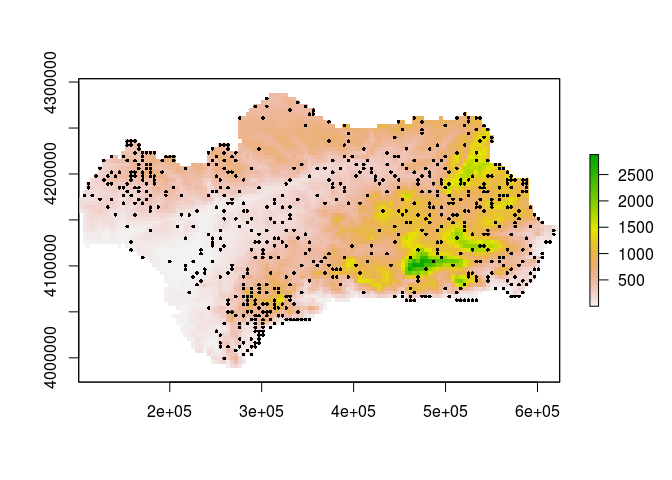
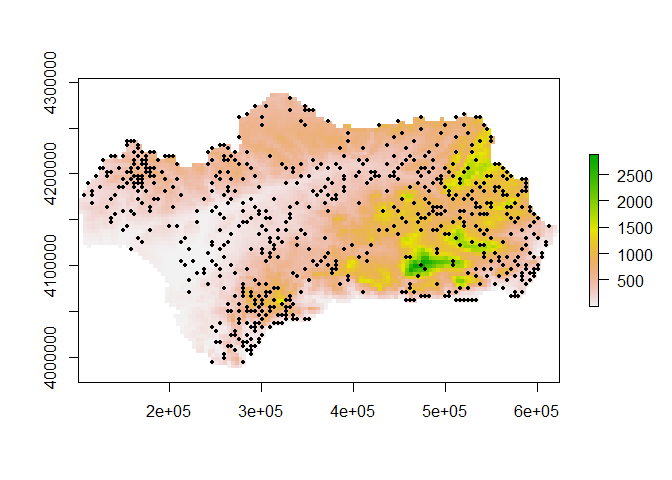
update readme

diff --git a/readme.md b/readme.md
@@ -89,7 +89,7 @@ library(mgcv)
     ## 
     ##     getData
 
-    ## This is mgcv 1.8-17. For overview type 'help("mgcv-package")'.
+    ## This is mgcv 1.8-16. For overview type 'help("mgcv-package")'.
 
 ``` r
 bkpts_quasi <- generate_background_points(number_of_background_points = 20000,
@@ -107,8 +107,8 @@ bkpts_quasi <- generate_background_points(number_of_background_points = 20000,
 fm1 <- gam(presence ~ s(elevation) +
               s(precipitation) +
               s(temperature) +
-              s(vegetation) + 
-              offset(log(weights)),
+              s(vegetation) + offset(log(weights)),
+              # weights = weights,
               data = bkpts_quasi,
               family = poisson())
 
@@ -119,7 +119,7 @@ p1 <- predict(object=preds,
 
 p1_cell <- p1*(res(preds)[1]*res(preds)[2])
 
-par(mfrow=c(1,2))
+par(mfrow=c(1,3))
 
 plot(p1_cell)
 POdata <- species[species$Occurrence == 1,]
@@ -147,6 +147,21 @@ p2 <- predict(object=preds,
 p2_cell <- p2*(res(preds)[1]*res(preds)[2])
 
 plot(p2_cell)
+
+fm_warton2010 <- gam(presence/weights ~ s(elevation) +
+              s(precipitation) +
+              s(temperature) +
+              s(vegetation),
+              weights = weights,
+              data = bkpts_grid,
+              family = poisson())
+
+p_warton <- predict(object=preds,
+             model=fm_warton2010,
+             type = 'response',
+             const=data.frame(weights = 1))
+
+p_warton_cell <- p_warton*(res(preds)[1]*res(preds)[2])
 ```
 
 ![](readme_files/figure-markdown_github/unnamed-chunk-6-1.png)
@@ -157,7 +172,7 @@ No let's check out estimates
 cellStats(p1_cell,sum)
 ```
 
-    ## [1] 117.5897
+    ## [1] 118.1141
 
 ``` r
 cellStats(p2_cell,sum)
